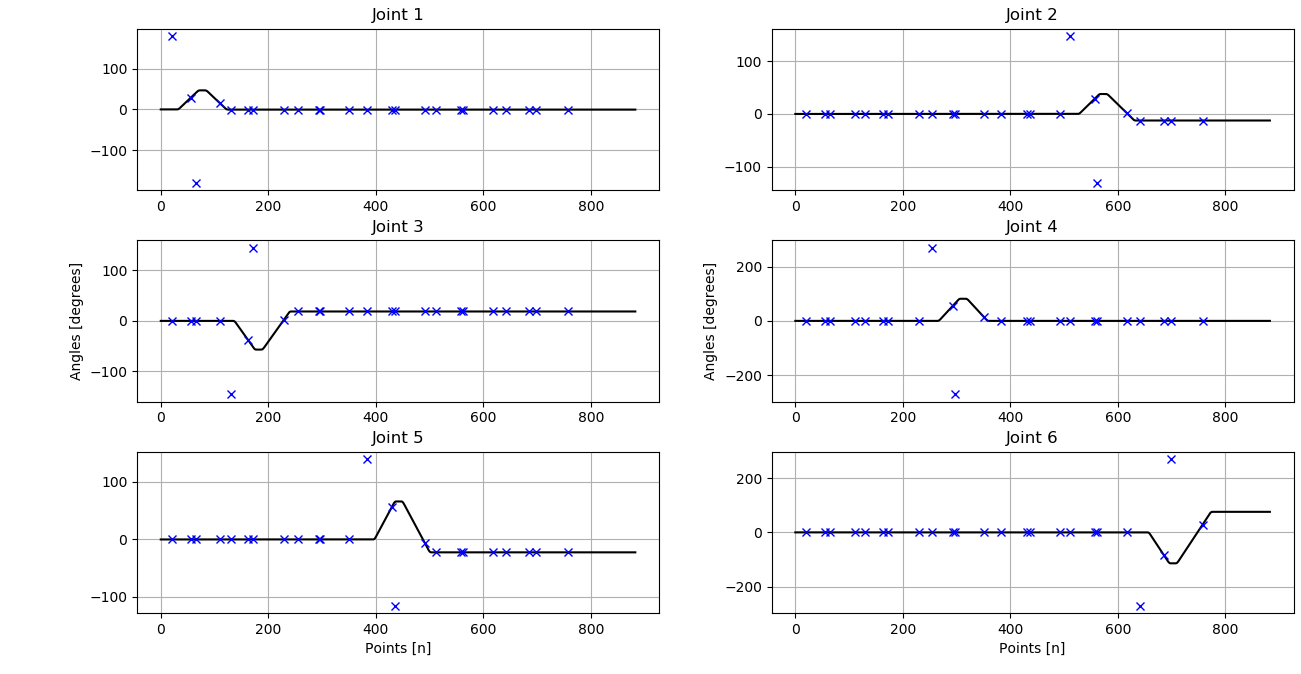
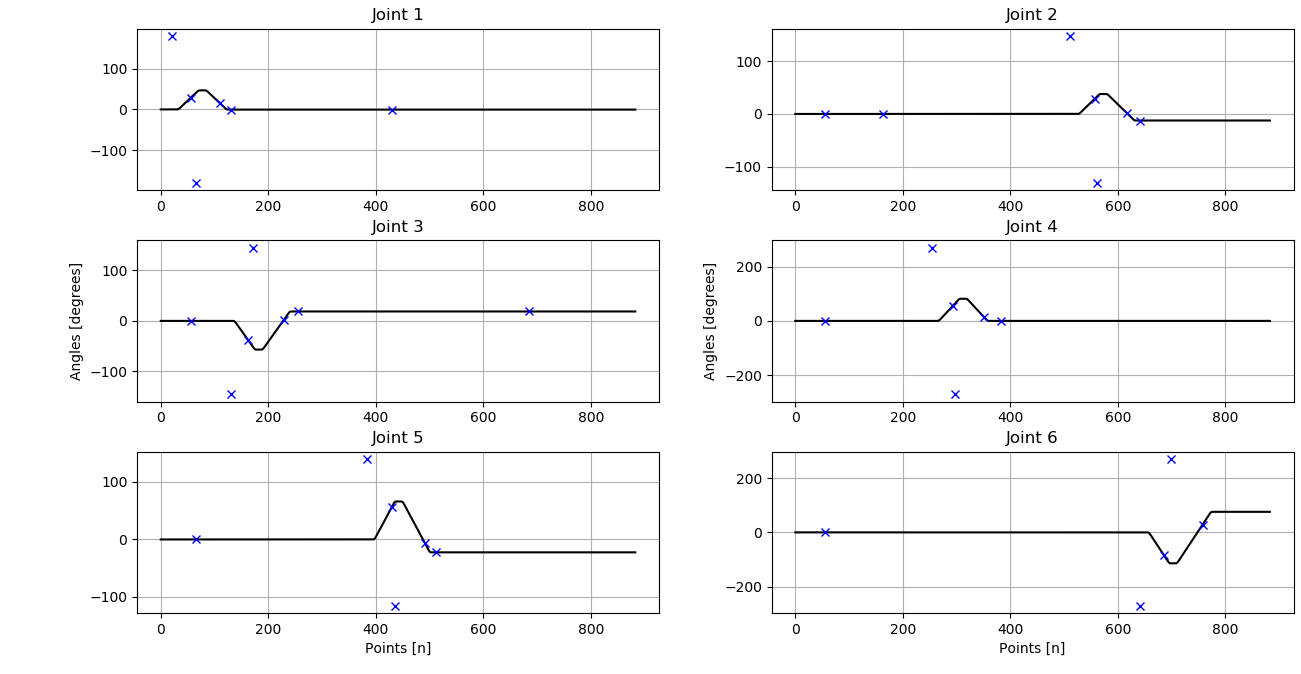
data analysis

diff --git a/data_analysis/manual_goals.py b/data_analysis/manual_goals.py
@@ -5,14 +5,14 @@ import numpy as np
 actual_pos = [[],[],[],[],[],[]]
 goal_pos = [[],[],[],[],[],[]]
 goal_time = [[],[],[],[],[],[]]
-deviations = [[],[],[],[],[],[]]
-average_deviations = []
-min_deviations = []
-max_deviations = []
-len_deviations = []
 
 max_rotation = [3.14, 2.57, 2.53, 4.71, 2.44, 4.71]
+for i in range(0,6):
+        max_rotation[i] = math.degrees(max_rotation[i]) - 5
+
 min_rotation = [-3.14, -2.27, -2.53, -4.71, -2.01, -4.71]
+for i in range(0,6):
+        min_rotation[i] = math.degrees(min_rotation[i]) + 5
 
 number_of_points = 0
 
@@ -34,10 +34,9 @@ test_file.close()
 #remove dublicate goals
 for i in range(0,6):
         last_goal = 0
-        j = 0
         index = 0
         length_of_list = len(goal_pos[i])
-        while j < length_of_list:
+        for j in range (0, length_of_list):
                 if last_goal == goal_pos[i][index]:
                         last_goal = goal_pos[i][index]
                         goal_pos[i].pop(index)
@@ -45,40 +44,35 @@ for i in range(0,6):
                 else:
                         last_goal = goal_pos[i][index]
                         index = index + 1
-                j = j + 1
 
+#calculate delay
+delay_up = [[],[],[],[],[],[]]
+delay_down = [[],[],[],[],[],[]]
+for i in range(0,6):
+        length_of_list = len(goal_pos[i])
+        for j in range(0, length_of_list):
+                if goal_pos[i][j] >= max_rotation[i]:
+                        k = goal_time[i][j]
+                        last_pos = actual_pos[i][k]
+                        delay_counter = 0
+                        while actual_pos[i][k] <= last_pos:
+                               delay_counter = delay_counter + 1
+                               last_pos = actual_pos[i][k]
+                               k = k + 1
+                        delay_up[i].append(delay_counter * 20)
+                elif goal_pos[i][j] <= min_rotation[i]:
+                        k = goal_time[i][j]
+                        last_pos = actual_pos[i][k]
+                        delay_counter = 0
+                        while actual_pos[i][k] >= last_pos:
+                               delay_counter = delay_counter + 1
+                               last_pos = actual_pos[i][k]
+                               k = k + 1
+                        delay_down[i].append(delay_counter * 20)
+                
 # for i in range(0,6):
 #     goal_time[i].pop(0)
 #     goal_time[i].append(number_of_points)
-
-#calculates deviations in degrees
-for i in range(0,6):
-    j = 0
-    while j < len(goal_pos[i]):
-        number_at_goal = goal_time[i][j]
-        actual_at_goal = actual_pos[i][number_at_goal-1]
-        goal_value = goal_pos[i][j]
-        deviation = abs(abs(goal_value) - abs(actual_at_goal))
-        deviations[i].append(deviation)
-        j = j + 1
-
-for i in range(0,6):
-    average_deviations.append(sum(deviations[i])/len(deviations[i]))
-print("average deviations:", average_deviations)
-
-for i in range(0,6):
-    min_deviations.append(min(deviations[i]))
-print("min deviations:", min_deviations)
-
-for i in range(0,6):
-    max_deviations.append(max(deviations[i]))
-print("max deviations:", max_deviations)
-
-for i in range(0,6):
-    len_deviations.append(len(deviations[i]))
-print("len deviations:", len_deviations)
-
-print(max_rotation)
 
 #plots
 plt.figure(1)
@@ -133,15 +127,25 @@ plt.xlabel("Points [n]")
 
 plt.tight_layout(pad=0.01, w_pad=-1.1, h_pad=-0.6)
 
-# plt.figure(2)
+fig, ax = plt.subplots()
 
-# x = np.arange(6)
-# markerline, stemlines, baseline = plt.stem(x, average_deviations, linefmt = "-.", markerfmt = "_")
-# plt.setp(markerline, color='b', linewidth=5, marker = "x")
-# plt.setp(stemlines, color='black', linewidth=1)
-# plt.setp(baseline, color='black', linewidth=1)
-# plt.title("Average joint deviations")
-# plt.xticks(x, ('Joint 1', 'Joint 2', 'Joint 3', 'Joint 4', 'Joint 5', 'Joint 6'))
-# plt.ylabel("Angles [degrees]")
+x = np.arange(6)
+width = 0.15
+markerline1, stemlines1, baseline1 = ax.stem(x - width, delay_up, linefmt = "-.", markerfmt = "_")
+markerline2, stemlines2, baseline2 = ax.stem(x + width, delay_down, linefmt = "-.", markerfmt = "_")
+# markerline, stemlines, baseline = plt.stem(x, delay_total, linefmt = "-.", markerfmt = "_")
+
+plt.setp(markerline1, color='b', linewidth=5, marker = "x")
+plt.setp(stemlines1, color='black', linewidth=1)
+plt.setp(baseline1, color='black', linewidth=1)
+
+plt.setp(markerline2, color='r', linewidth=5, marker = "x")
+plt.setp(stemlines2, color='black', linewidth=1)
+plt.setp(baseline2, color='black', linewidth=1)
+
+plt.title("Average joint response delay")
+plt.xticks(x, ('Joint 1', 'Joint 2', 'Joint 3', 'Joint 4', 'Joint 5', 'Joint 6'))
+plt.ylabel("Delay [ms]")
+ax.legend((markerline1, markerline2), ('Moving up', 'Moving down'))
 
 plt.show()
